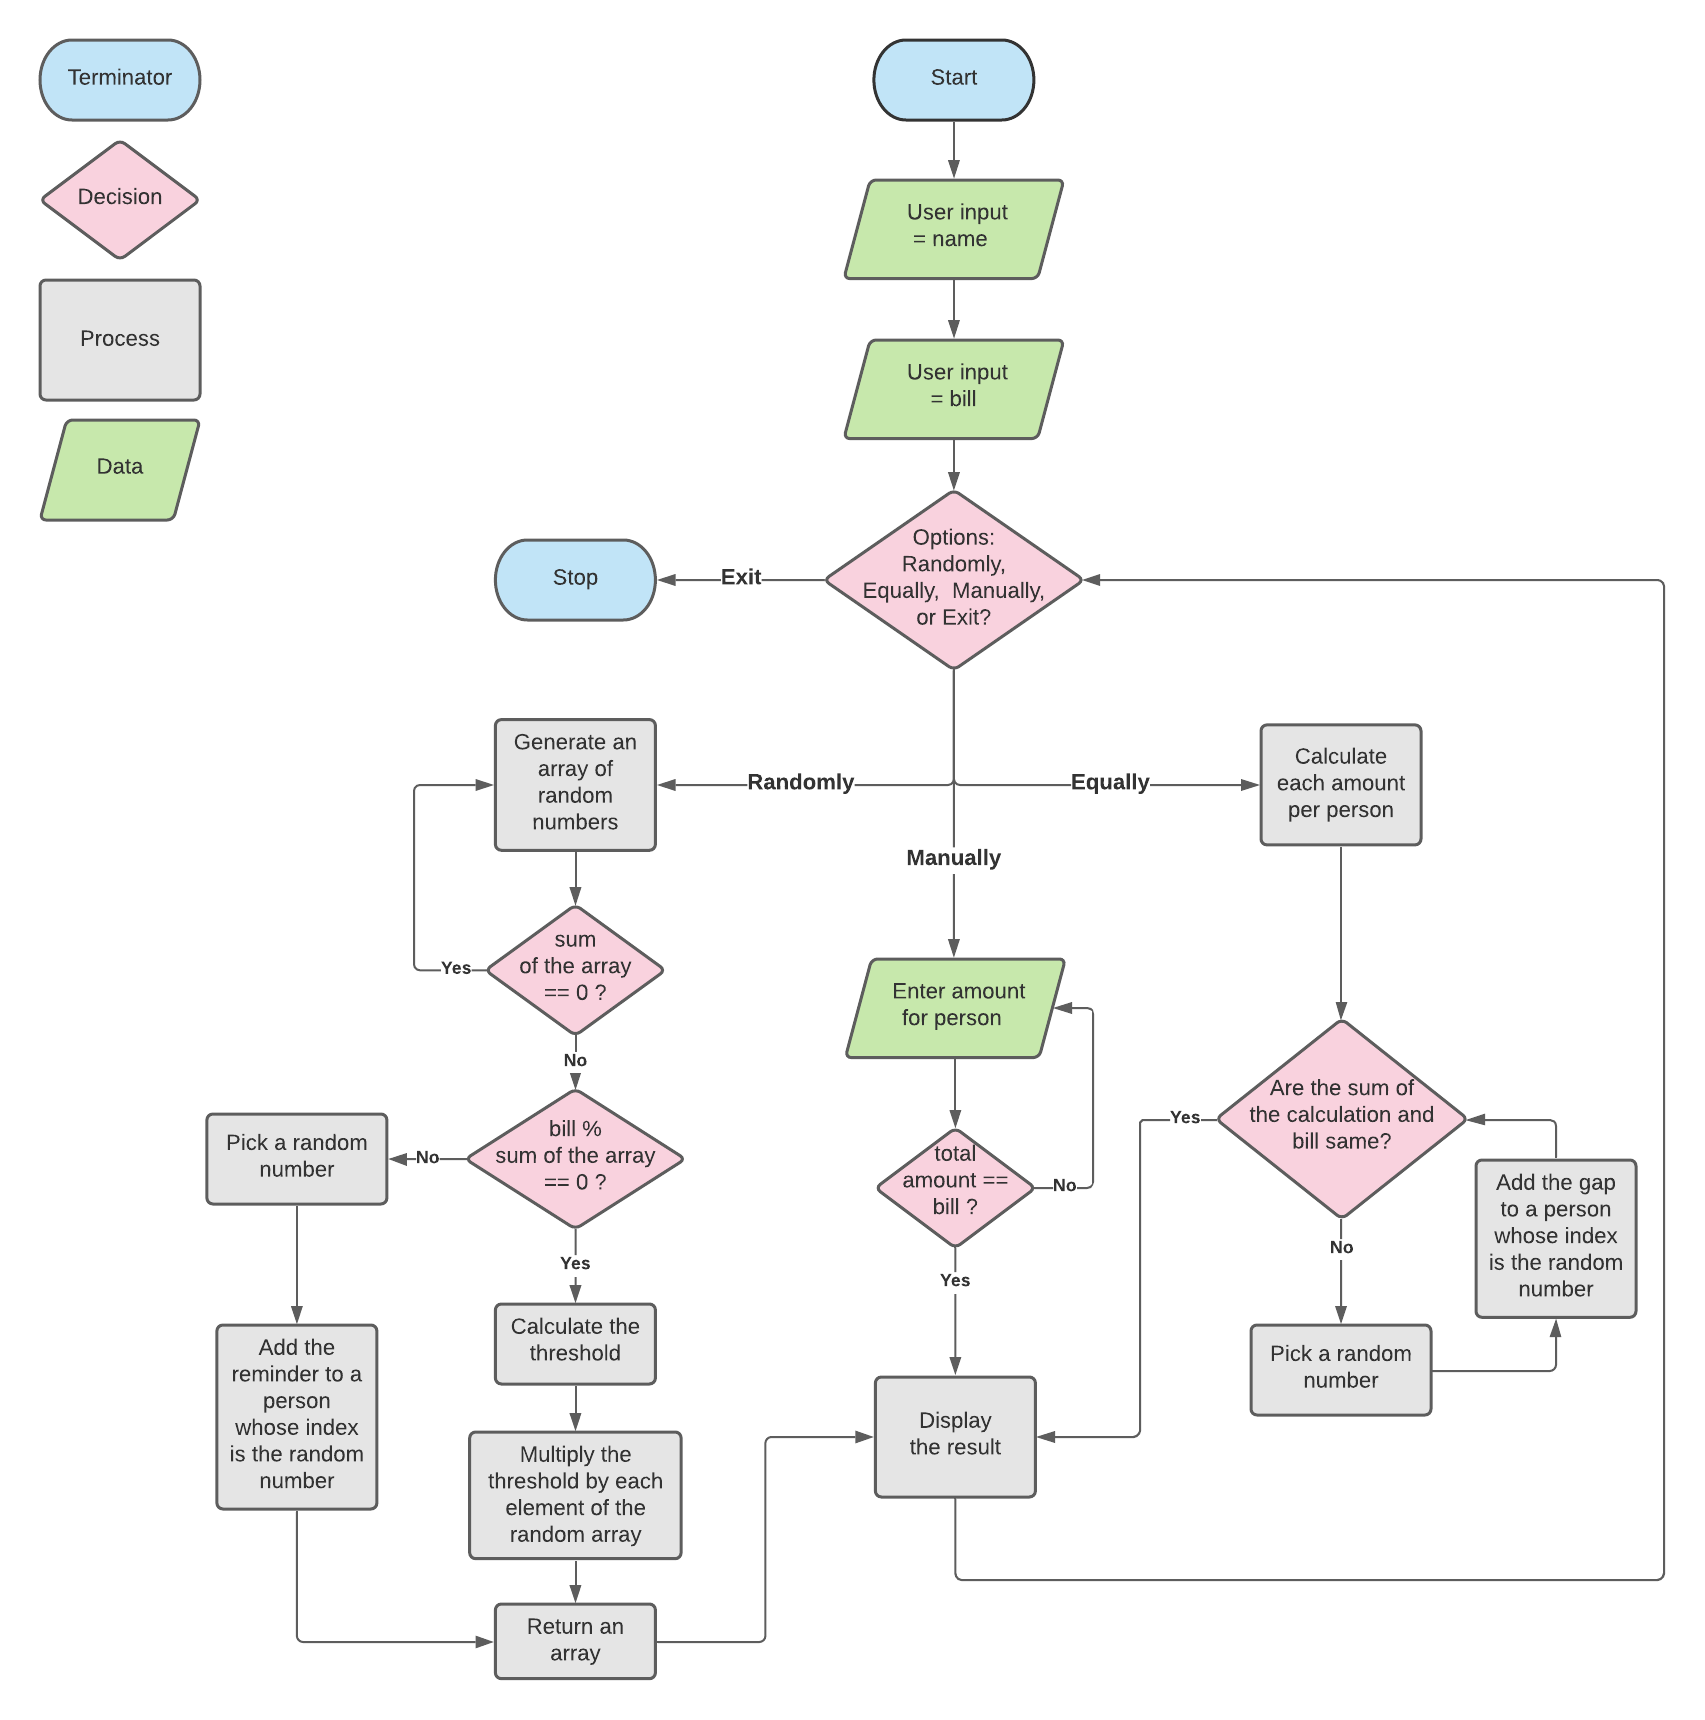
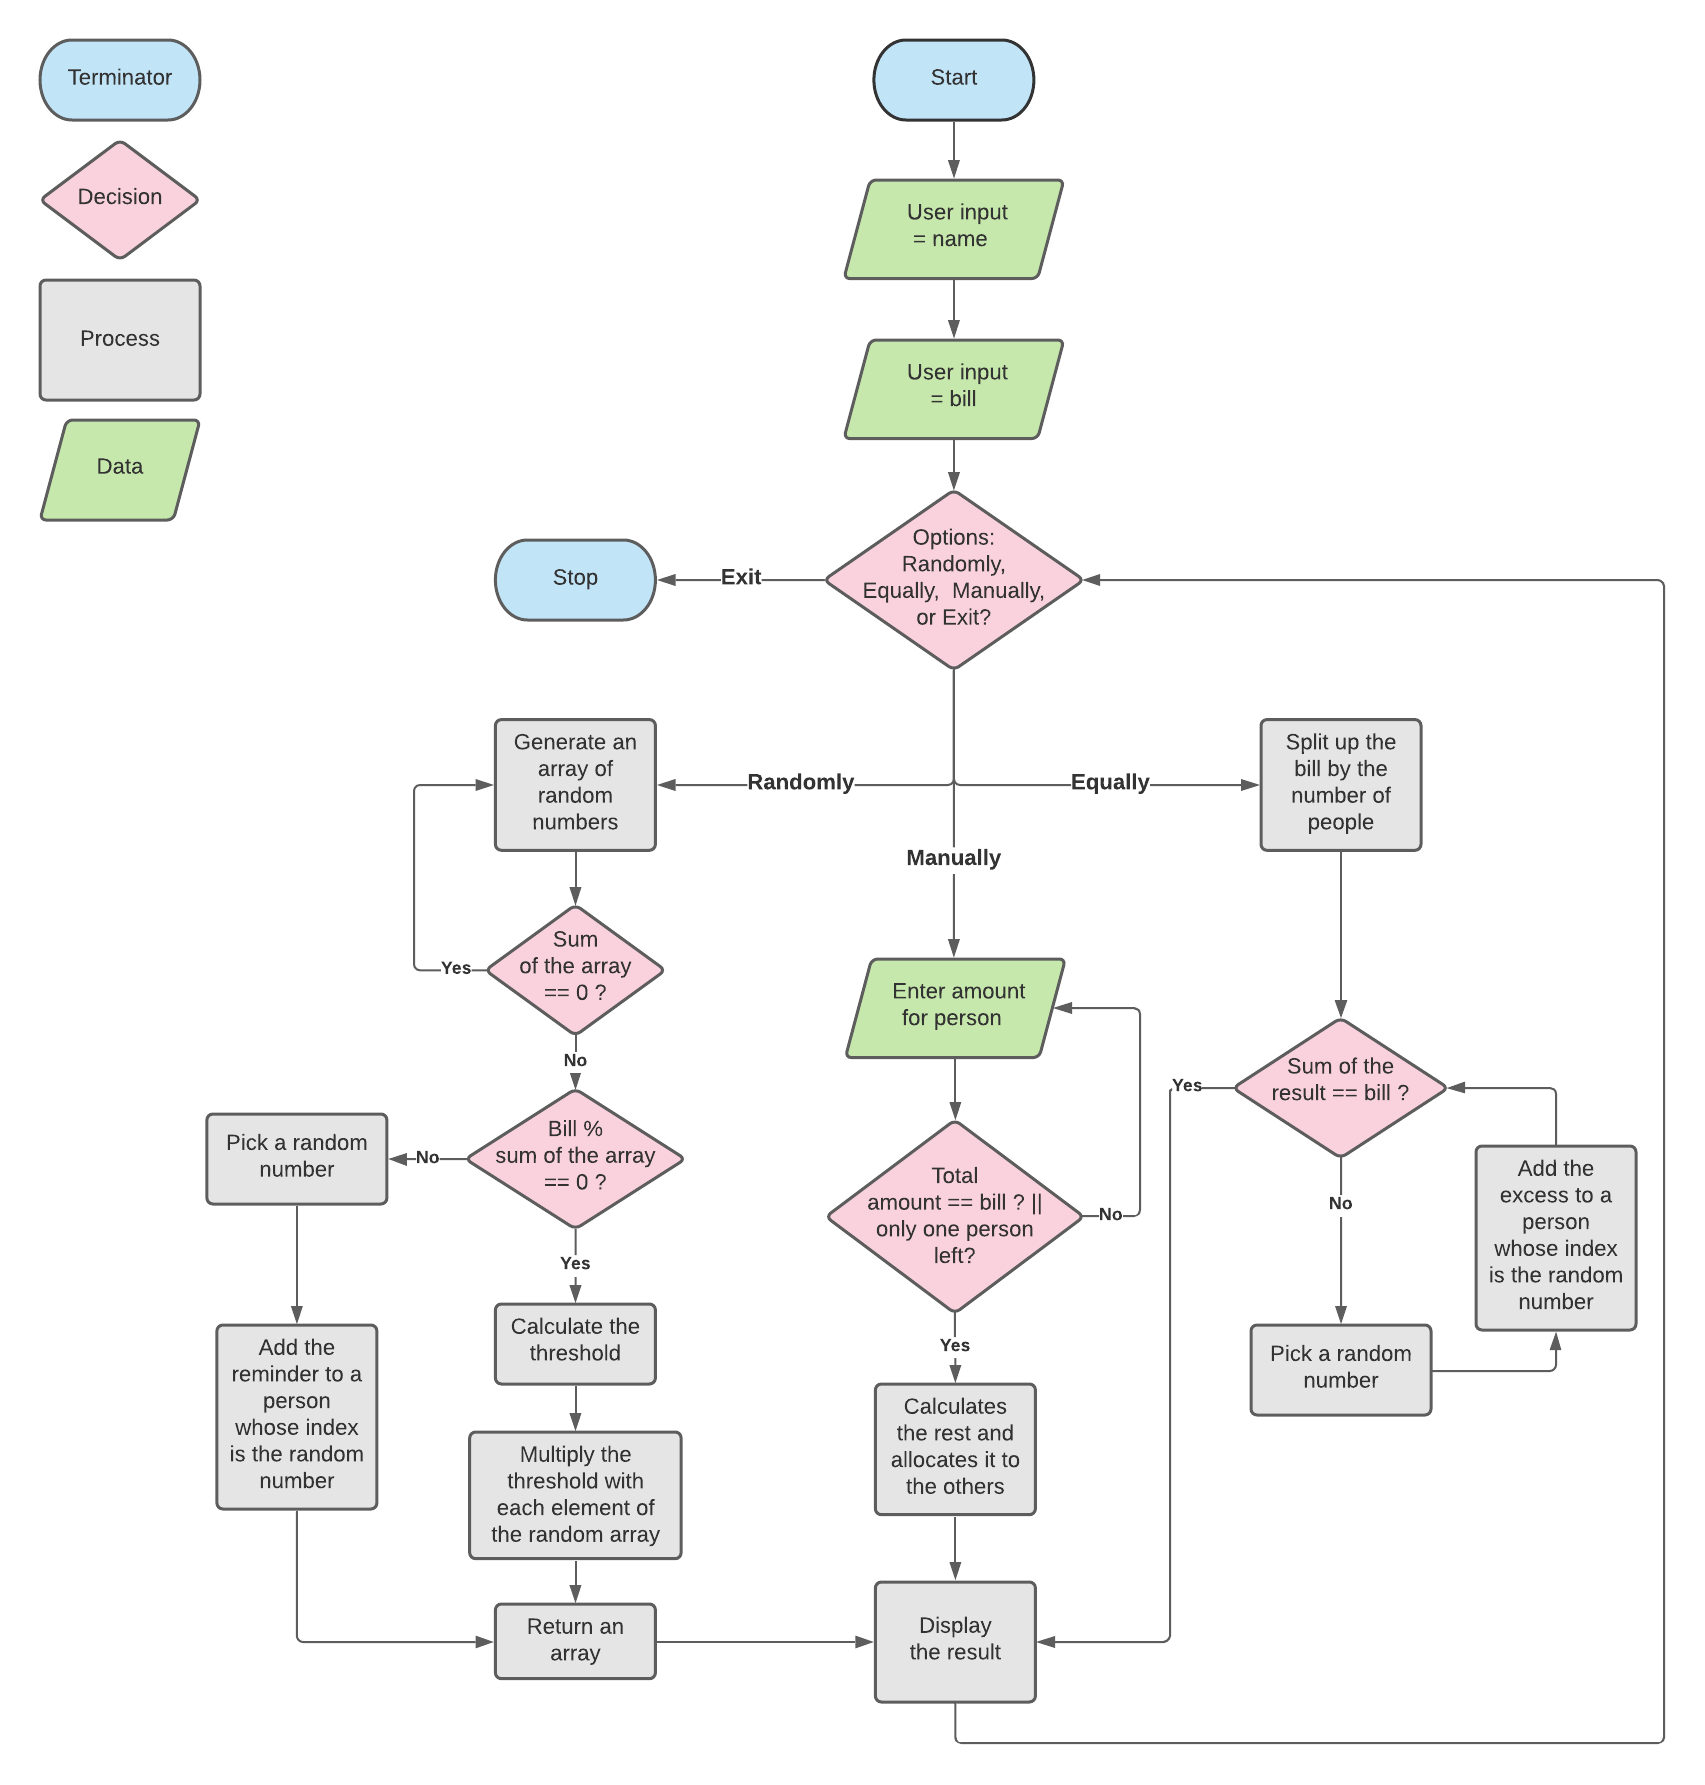
updates README file

diff --git a/README.md b/README.md
@@ -1,103 +1,98 @@
 # T1A3 - Terminal Application
 
 ## Source Control Repository
+* Here's the 
 [repo](https://github.com/aanmeba/t1a3_termianl_app)
 
 ## Software Development Plan
 
-개요
-특정 금액을 여러 사람이 부담해야하는 경험은 누구나 있다. 그럴 때 이를 균등하게 나누거나 게임 처럼 랜덤으로 서로 다른 금액을 낼 수도 있고, 자신이 낼 수 있는 만큼을 미리 정할 수도 있다. 이 앱은 그런 기능을 가지고 있어서 친구들이나 지인들과 식사를 하고, 선물을 사거나 다양한 상황에서 사용할 수 있다. 금액을 부담할 사람들의 이름을 먼저 입력하고, 총 액수를 입력한다. 균등하게 나눌지, 랜덤하게 나눌지, 수동으로 입력할지를 선택하면 결과가 화면에 표시된다.
+The purpose of this terminal application is splitting a bill, an experience that many of us have had, whether it is out at dinner with friends or any other situation with a group expense. However, most applications in the market only provide an option to share the amount equally, but what if there were other options? 
 
-scope
-- top-level purpose, 어떤 것을 달성했을 때 프로젝트가 끝났다고 말할 수 있는지. 
-빌을 나눠서 낼 때는 크게 세 가지 상황을 고려해 볼 수 있다. 균등하게 나누거나 랜덤하게 나누거나 내고싶은 금액을 직접 정하는 방식이 있을 수 있다. 유효한 입력값을 받아서 유저가 원하는 방식으로 계산하고 이를 표시하는 것이 이 앱의 MVP 스코프이다. edge case를 고려하여 입력값의 유효성 검사를 해서 정확한 결과를 표시해야 한다.
+Let's say that the total bill is $99 and you want to split it between three friends. Is the only option to each pay $33? Dividing into $90, $9, and $0 is another potential way to split the check. Or, to avoid needing change, you want to pay $50 and then your friends will share the rest. This application provides users with more options in these three scenarios, one of which is to split the bill evenly, the next one is to share different amounts each, and the last one is for users to choose their own share, and then split the rest. 
 
----------------------------------------------
+Based on these three situations, this program takes valid inputs, calculates them depending on a user's choice, and displays the results in user-friendly way. Apart from that, it handles edge cases to return exact values. When it comes to valid inputs, there are two types of data, names and amounts. This program will only take alphabets for names and positive numbers for amounts. As for the manual option, the amount input can be positive numbers as well as zero (0).
 
-This terminal application is for splitting a bill. Many of us have this experience of sharing a specific amount, whether it is having dinner with friends or any group expense. Most applications in the market provide sharing the amount equally, but what if there are other options? 
-
-Let's say that the total bill is $99 and you are going to share it with two other friends. Is it the only option to pay $33 for each? If you can divide it into $90, $9, and $0, it is going to be thrilling. Or sometimes you just don't want to have the change so want to pay $50 then your friends are just going to share the rest. This application provides users with more options with these three scenarios, one of which is to split the bill evenly, the next one is to share different amounts each, and the last one is for users to take up their share as much as they want. 
-
-Based on these three situations, this program takes valid inputs, calculates them depending on a user's choice, and displays the results user-friendly. In addition, it has to handle the edge cases to return the exact value. When it comes to the valid inputs, there are two types of data, one of which is names and another is amount. This will only take alphabets for names and positive numbers for amount. As for the manual option, the amount input can be positive numbers as well as zero (0).
-
-Users simply enter more than two names and the total amount they want to share. Then it displays options to divide the amount equally, randomly, or manually and the user can choose one of the options using arrow keys.
-
+Users simply enter more than two names and the total amount they want to share. Then the program displays options to divide the amount equally, randomly, or manually and the user can choose one of the options using arrow keys on a keyboard.
 
 ## Features
 
-* Split Equally
-
-This divides the input amount evenly. In some cases that the amount can't be equally split up by the number of people, it randomly chooses one person to take the rest. For example, there are 3 people and the total amount is $100. In general, a calculator returns 33.333333333.... but it is not ideal in our real life. So this is going to be $33.33, $33.33, and $33.34.
-
-This calculation is done in 2 decimal points so the sum of the 100/3 result is 99.99. This feature verifies the input amount and the sum of the result. If this is not the same, it picks a random number and adds it to the corresponding person. 
-
 * Split Randomly
 
-This divides the input amount randomly. First, it generates an array of random numbers and the length of the array is the same as the number of people. If it creates all the elements in the array that are 0, it will trigger ZeroDivisionError in the next step so it regenerates another array until the array is valid. 
+This divides the input amount randomly. First, it generates an array of random numbers with the size equal to the number of people. If it notices that all the elements in the array are 0, it will trigger ZeroDivisionError in the next step and regenerates another array until the array elements are all valid. 
 
-Then, it divides the total amount by the sum of elements in the random array and the result value is the threshold price. And then, it multiplies each element in the random number and the threshold price. Finally, it returns an array of randomly divided amounts.
+Then, it divides the total amount by the sum of the random elements in the array and the result value is what I call the multiplier value, which is the amount that the program uses to multiply with the random numbers in order to get the correct total amount. Finally, it returns an array of randomly divided amounts.
+
+* Split Equally
+
+This divides the input amount evenly. In some cases, if the amount can't be equally split up by the number of people, it randomly chooses one person to take the excess. For example, there are 3 people and the total amount is $100. In general, a calculator returns 33.333333333.... but it is not ideal in our real life. With this program, the amounts will be $33.33, $33.33, and $33.34.
+
+This calculation is done to 2 decimal points so the sum of the 100/3 results 99.99. This feature verifies the input amount and the sum of the result. If they are not equal, it picks a random number and adds it to the corresponding person.
 
 * Split Manually
 
-This accepts the user input manually to share the amount. Since it takes user inputs so handling edge cases are important to remove any errors. It validates if the inputs are positive numbers including zero (0), otherwise, when input values are alphabets, symbols, and negative numbers, it raises warning messages and accepts another input from the user.
+This accepts the user input one by one user to manually share the amount. Since it takes user inputs, handling edge cases is important in order to remove any errors. It validates if the inputs are positive numbers or zero (0), otherwise, if input values are alphabets, symbols, or negative numbers, it raises a warning message and accepts another input from the user.
 
-When the last person left after entering the amount for each, it automatically calculates the rest and allocates it to the last person, and then displays the result on the screen. 
-
+When only one person is left after entering the amount for every other person, it automatically calculates the rest and allocates it to the last person, then it displays the result on the screen.
 
 ## User Interaction & Experience
 
-Typing '-help' or '-info' in the command line when executing this application displays further information to use it. Users can enter names and amounts following the instruction then select an option using the arrow keys. 
-
-------------------------------
-Develop an outline of the user interaction and experience for the application.
-Your outline must include:
-- how the user will find out how to interact with / use each feature
-- how the user will interact with / use each feature
-- how errors will be handled by the application and displayed to the user
-
-지시에 따라 입력하거나 목록에서 선택
-입력값으로 계산하는 앱이라 에러가 그다지 ..
-
-argv - 앱을 실행할 때 command line으로 -help와 -info를 사용해 정보를 얻을 수 있음.
-지시에 따라 이름과 금액을 입력하면 선택할 수 있는 메뉴가 나타남.
-방향키로 원하는 메뉴를 선택할 수 있음. 
-
-input validation을 통해 invalid 값을 입력하면 오류메시지가 표시되고 다시 입력할 수 있음.
---------------------------
-
+Typing '-help' or '-info' in the command line when executing this application displays further information on how to use it. Users can enter names and amounts following the instruction and then can select an option using the arrow keys.
 
 ## Control flow
 
-Develop a diagram which describes the control flow of your application. Your diagram must:
-- show the workflow/logic and/or integration of the features in your application for each feature.
-- utilise a recognised format or set of conventions for a control flow diagram, such as UML.
+![Control Flow](./docs/terminal_app_flowchart.png)
+* Here's the link to the [flowchart](https://lucid.app/lucidchart/d446112a-d8c4-45cf-81db-cdb4df1e9473/edit?invitationId=inv_b2bd074b-cc3f-4729-aa8a-de055b24321a) (Log in required.)
 
-## Implementation Plan -> Trello
+## Implementation Plan
 
-Develop an implementation plan which:
-- outlines how each feature will be implemented and a checklist of tasks for each feature
-- prioritise the implementation of different features, or checklist items within a feature
-- provide a deadline, duration or other time indicator for each feature or checklist/checklist-item
+![Trello_board_screenshot](./docs/trello.png)
+* Here's the link to the [Trello Board](https://trello.com/b/l7Rq2BOL/t1a3-terminal-app)
 
-Utilise a suitable project management platform to track this implementation plan
+## Getting Started
 
-> Your checklists for each feature should have at least 5 items.
+Make sure Ruby (preferably, version >= 2.7.0) installed. 
 
-https://trello.com/b/l7Rq2BOL/t1a3-terminal-app
+### Requirements
 
+* macOS X with macOS 10.9 or later
+* Windows 10
+* Ubuntu 12.04 or higher
+* Mint 17.1 or higher
+* RAM 4gb or higher
+* Ruby (preferably, version >= 2.7.0)
+* Ruby Gems
+    - [tty-prompt](https://github.com/piotrmurach/tty-prompt#25-yesno)
+    - [colorize](https://github.com/fazibear/colorize)
+    - [artii](https://github.com/miketierney/artii)
+    - [rspec](https://github.com/rspec/rspec-metagem) (optional)
 
-## How to install and use
+### How To Use
 
-Design help documentation which includes a set of instructions which accurately describe how to use and install the application.
+1. Install Ruby (2.7.0 or higher)
+    - Check your Ruby version with `which ruby` in your command line
 
-You must include:
-- steps to install the application
-- any dependencies required by the application to operate
-- any system/hardware requirements
+2. Install the Ruby Gems //// Run the bash script file !!!
+```
+# Install bundler
+bundle install
 
-### Requirements (dependencies, system/hardware)
+# Install Ruby Gems
+gem install tty-prompt
+gem install colorize
+gem install artii
+```
 
+3. Run the app with `Ruby main.rb`
 
+### Help
+* To find more details for each option, please add the `-help` or `-h` in the command line
+```
+ruby main.rb -help
+```
+* To know more about this application, please add the `-info` or `-i` in the command line
+```
+ruby main.rb -info
+```
 
 
 
